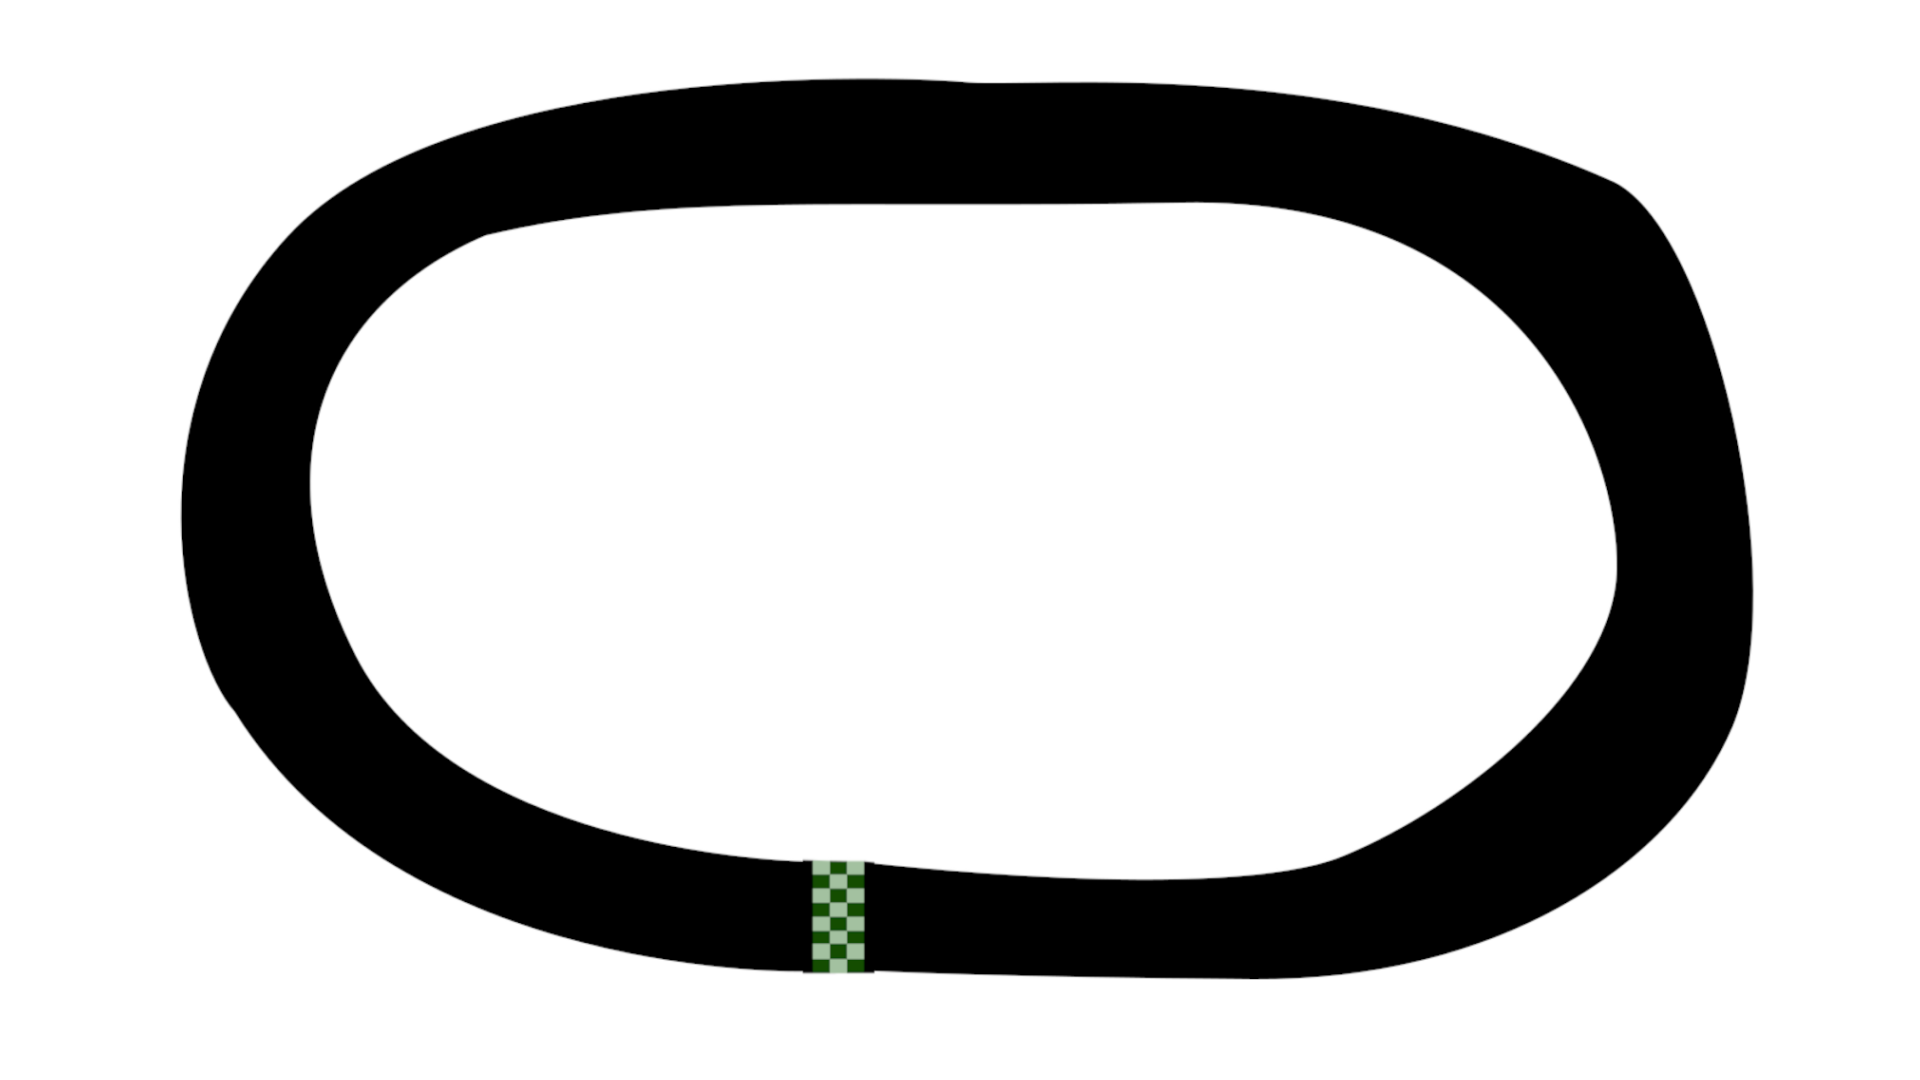
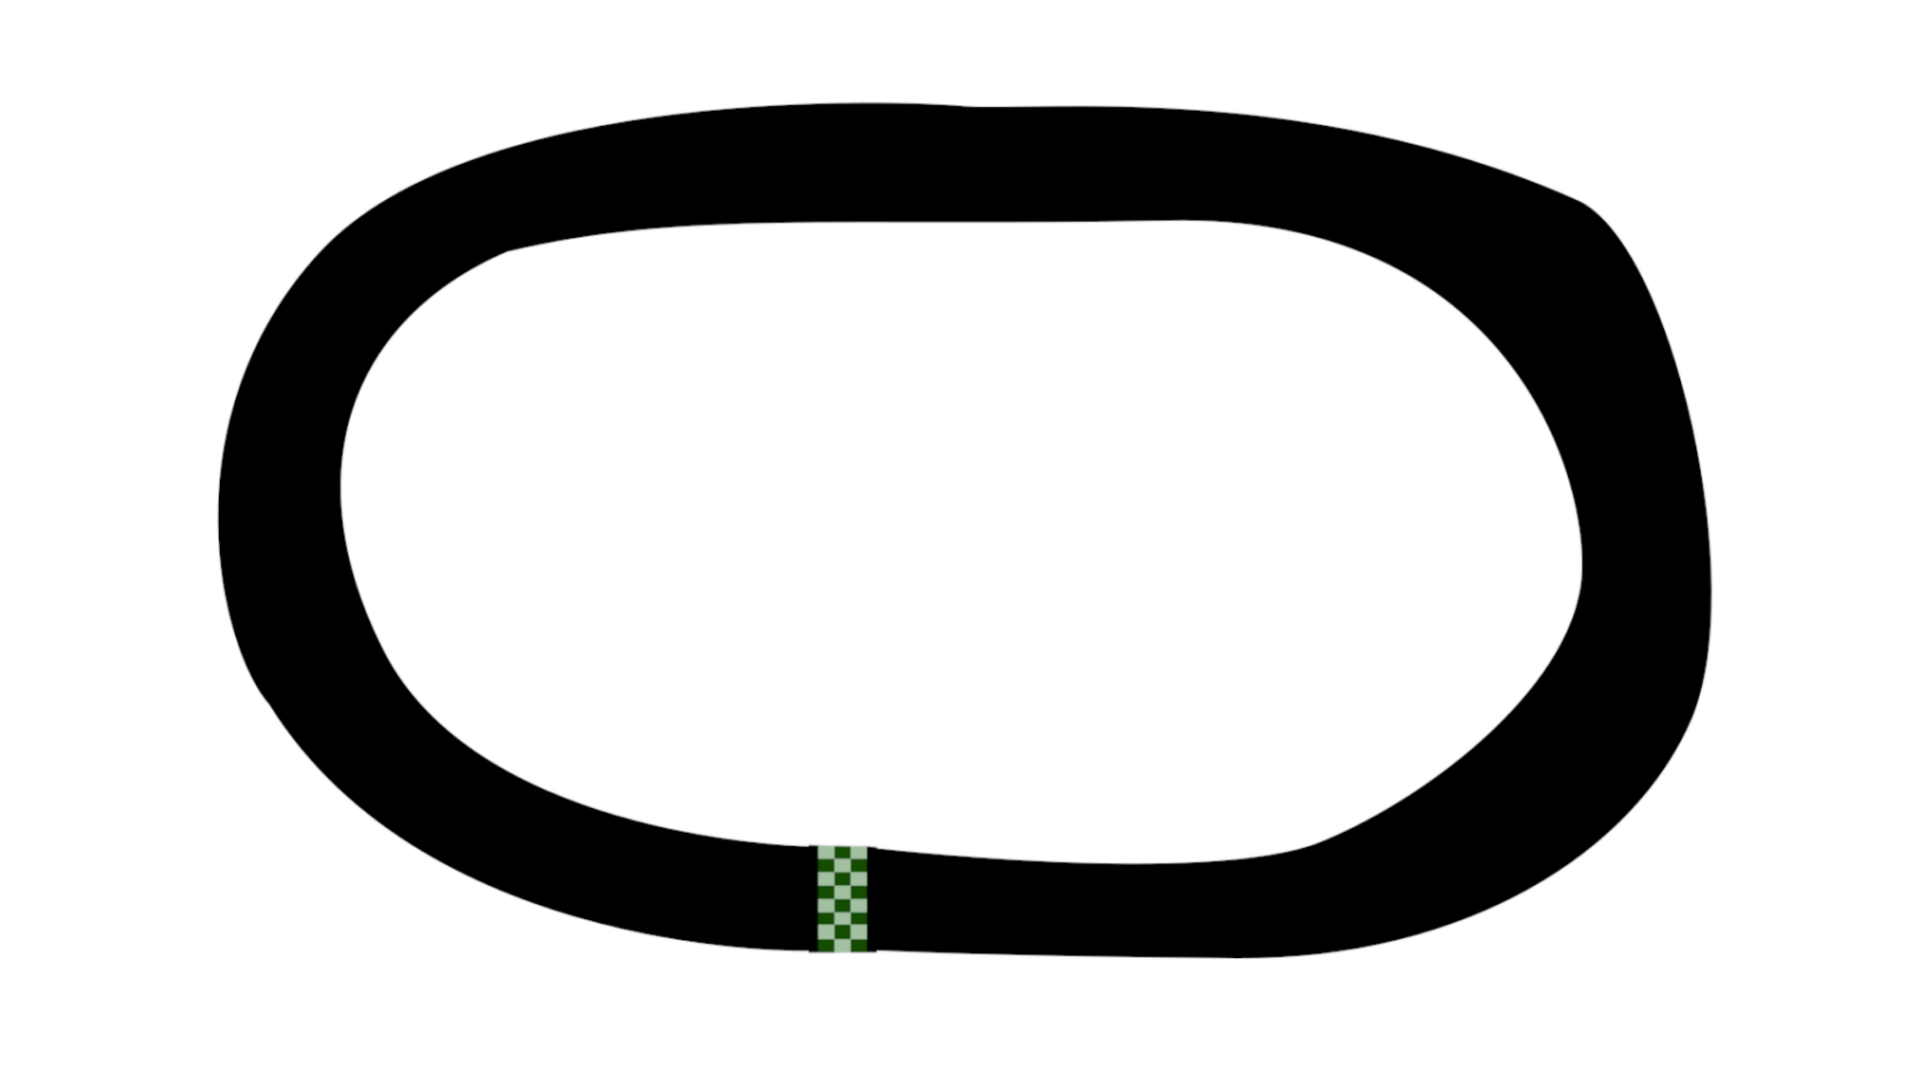
Rescaled the track images and re-adjusted the car sprite's initial position accordingly

Changed region(s): [[0.0938, 0.0611, 0.9375, 0.9167]]

diff --git a/car.py b/car.py
@@ -23,7 +23,7 @@ class Car:
         self.sprite = pygame.transform.scale(self.sprite, (CAR_SIZES[self.args.car_size], CAR_SIZES[self.args.car_size]))
         self.rotated_sprite = self.sprite 
 
-        self.position = [900, 910] # Starting Position
+        self.position = [870, 870] # Starting Position
         self.angle = 0
         self.speed = 0
 
